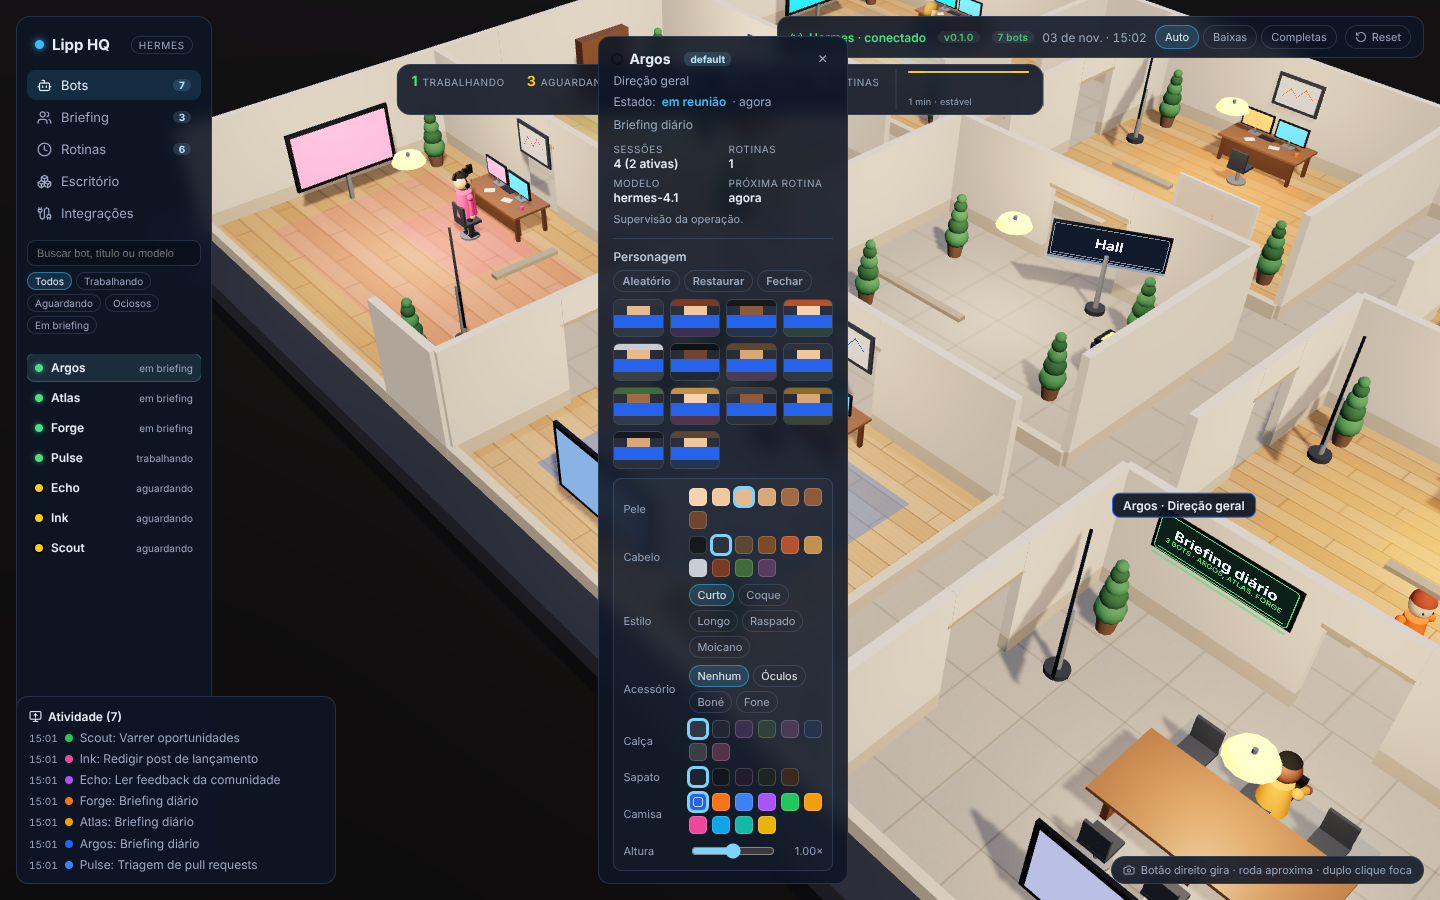
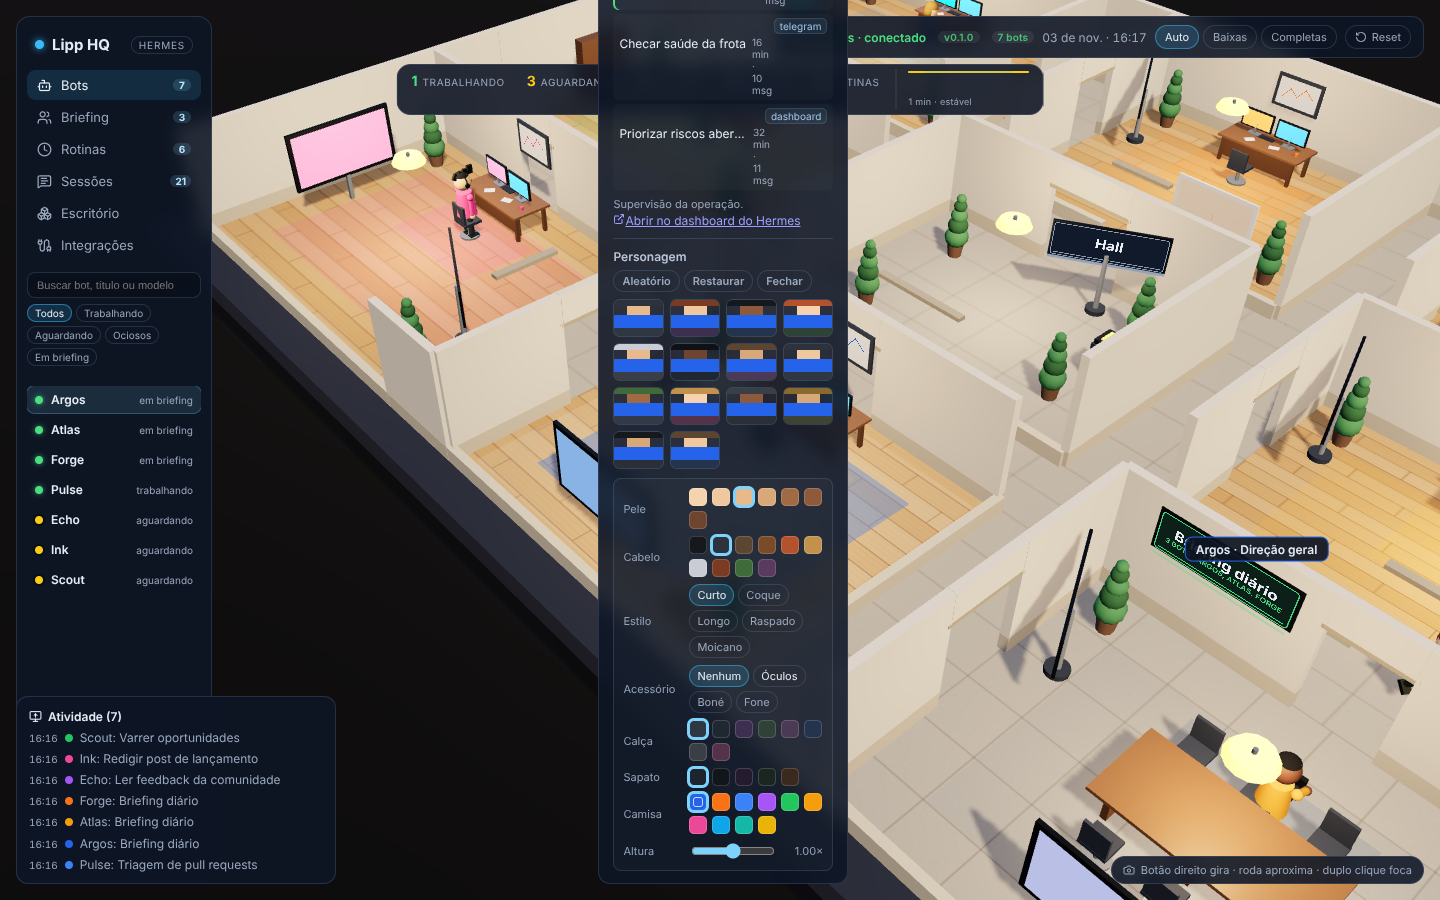
fix(painel): miniatura de preset só fica marcada enquanto o look é aquele preset
Depois de trocar uma peça o personagem não é mais o preset escolhido, mas a
miniatura continuava marcada — a UI dizia uma coisa e a cena mostrava outra. Agora
a marcação só vale quando não há peça ajustada, e o `title` diz "com ajustes"
quando o preset continua sendo a base.

O harness do editor continua exigindo 10 de 10: mesmo caminho, mesma prova.

diff --git a/lipp-hq-world/src/components/hud/Hud.tsx b/lipp-hq-world/src/components/hud/Hud.tsx
@@ -770,6 +770,10 @@ function CharacterEditor({ agentId, base }: { agentId: string; base: { color: st
   const identityColor = base.color;
   const look = resolveLook(base, override);
   const presetId = override?.presetId ?? null;
+  // Preset só fica marcado enquanto o look é exatamente ele: depois de mexer
+  // numa peça o personagem não é mais aquele preset, e marcar a miniatura
+  // diria o contrário do que a cena mostra.
+  const customized = Object.keys(override ?? {}).some((key) => key !== "presetId");
 
   return (
     <section className="character-editor" aria-label="Editor de personagem">
@@ -800,10 +804,10 @@ function CharacterEditor({ agentId, base }: { agentId: string; base: { color: st
             key={preset.id}
             type="button"
             role="option"
-            aria-selected={presetId === preset.id && !override?.skin && !override?.hair}
+            aria-selected={presetId === preset.id && !customized}
             aria-label={preset.label}
-            title={preset.label}
-            className={presetId === preset.id ? "preset-card active" : "preset-card"}
+            title={customized && presetId === preset.id ? `${preset.label} (com ajustes)` : preset.label}
+            className={presetId === preset.id && !customized ? "preset-card active" : "preset-card"}
             onClick={() => chooseAgentPreset(agentId, preset.id)}
           >
             <span className="preset-hair" style={{ background: preset.hair }} aria-hidden />
